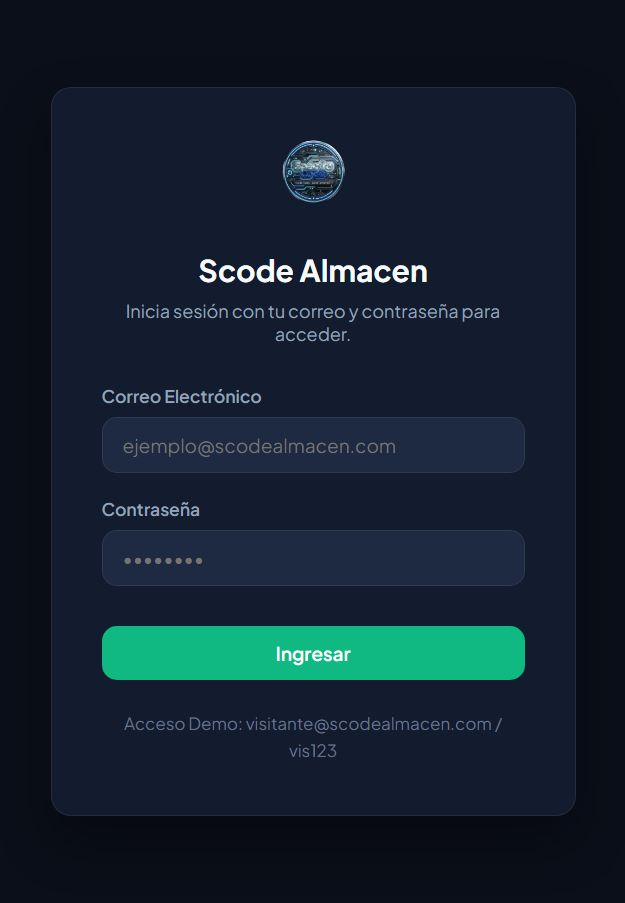
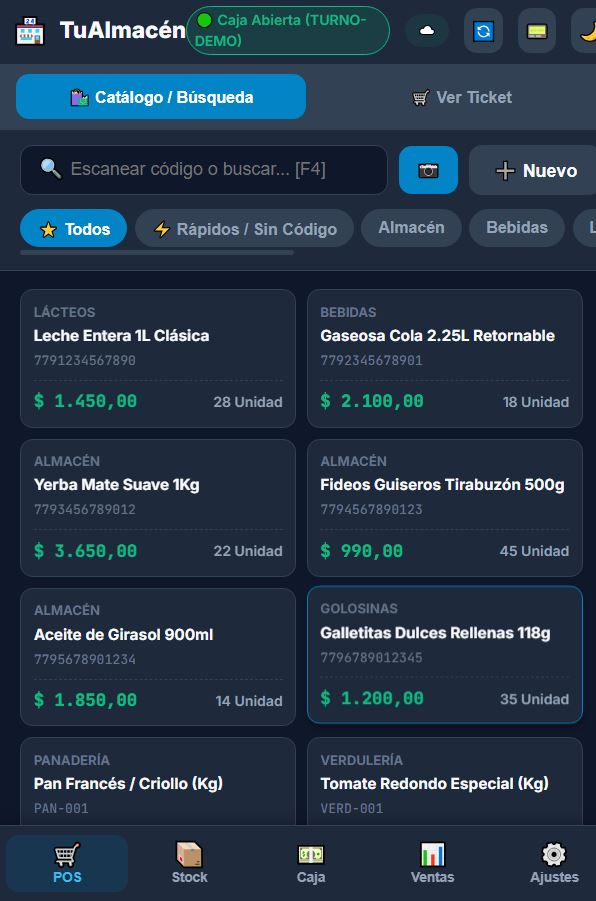
refactor: update project names, demo links, and remove Spectra Sueldos from portfolio

diff --git a/index.html b/index.html
@@ -253,7 +253,8 @@
             </li>
           </ul>
           <div>
-            <a href="https://wa.me/5493875374239?text=Quiero%20m%C3%A1s%20informaci%C3%B3n%20sobre%20los%20curriculum" target="_blank" class="btn whatsapp-btn-inline">
+            <a href="https://wa.me/5493875374239?text=Quiero%20m%C3%A1s%20informaci%C3%B3n%20sobre%20los%20curriculum"
+              target="_blank" class="btn whatsapp-btn-inline">
               <svg width="18" height="18" fill="currentColor" viewBox="0 0 24 24">
                 <path
                   d="M.057 24l1.687-6.163c-1.041-1.804-1.588-3.849-1.587-5.946C.06 5.348 5.397.01 12.008.01c3.202.001 6.212 1.246 8.477 3.513 2.262 2.268 3.507 5.28 3.505 8.484-.004 6.657-5.34 11.997-11.953 11.997-2.005-.001-3.973-.502-5.724-1.455L0 24zm6.59-4.846c1.6.95 3.167 1.455 4.814 1.456 5.487 0 9.954-4.41 9.957-9.822.001-2.624-1.019-5.09-2.871-6.945C16.837 1.988 14.37 1.01 11.75 1.01c-5.492 0-9.957 4.411-9.962 9.825-.001 1.814.48 3.59 1.393 5.161L2.16 20.81l4.487-1.656zM17.76 14.41c-.324-.162-1.92-.949-2.216-1.057-.297-.108-.513-.162-.73.162-.215.324-.836 1.056-1.025 1.272-.188.217-.377.244-.7.081-1.223-.613-2.148-1.077-2.987-2.514-.22-.378.22-.35.63-.173.368.16.812.95.893 1.11.08.16.08.3.04.434-.04.136-.433.974-.633 1.192-.2.217-.406.244-.73.081-1.39-.693-2.45-1.282-3.23-2.617-.204-.347-.204-1.06.315-1.579.467-.467.579-.579.73-.73.151-.151.2-.217.3-.379.099-.162.05-.3-.024-.462-.075-.162-.73-1.76-1.002-2.41-.265-.637-.534-.55-.73-.55-.19 0-.405-.027-.622-.027-.216 0-.568.081-.865.407-.297.324-1.135 1.11-1.135 2.71 0 1.6 1.162 3.142 1.324 3.358.162.217 2.287 3.493 5.54 4.896.774.333 1.378.533 1.849.683.777.247 1.485.212 2.046.128.625-.094 1.92-.785 2.19-1.543.27-.759.27-1.41.19-1.543-.08-.136-.297-.217-.622-.379z" />
@@ -364,13 +365,13 @@
             <img src="image/sistemas/scode-almacen.JPG" alt="SCode Almacén" class="project-image">
             <div class="project-overlay">
               <div class="project-actions">
-                <a target="_blank" href="https://scodealmacen.pages.dev/" class="btn btn-primary">Probar Demo</a>
+                <a target="_blank" href="https://tualmacen.pages.dev/" class="btn btn-primary">Probar Demo</a>
               </div>
             </div>
           </div>
           <div class="project-details">
             <span class="project-type">Sistemas Web</span>
-            <h3 class="project-title">SCode Almacén</h3>
+            <h3 class="project-title">Tu Almacen</h3>
             <p class="project-description">Software integral para control de inventarios, alertas de stock mínimo y
               registro automático de entradas y salidas de mercancías.</p>
             <div class="project-tags">
@@ -381,42 +382,19 @@
           </div>
         </div>
 
-        <!-- Project 5: Spectra Sueldos (Sistemas Web) -->
-        <div class="glass-card project-card" data-category="sistemas">
-          <div class="project-image-wrapper">
-            <img src="image/sistemas/spectrasueldos.JPG" alt="Spectra Sueldos" class="project-image">
-            <div class="project-overlay">
-              <div class="project-actions">
-                <a target="_blank" href="https://sueldodemo.netlify.app/" class="btn btn-primary">Probar Demo</a>
-              </div>
-            </div>
-          </div>
-          <div class="project-details">
-            <span class="project-type">Sistemas Web</span>
-            <h3 class="project-title">Spectra Sueldos</h3>
-            <p class="project-description">Sistema de liquidación de sueldos y salarios automatizado, generación de
-              recibos digitales y auditorías financieras.</p>
-            <div class="project-tags">
-              <span class="project-tag">Next.js</span>
-              <span class="project-tag">Supabase</span>
-              <span class="project-tag">PDF Generator</span>
-            </div>
-          </div>
-        </div>
-
-        <!-- Project 6: TurnoCode (Sistemas Web) -->
+        <!-- Project 5: TurnoCode (Sistemas Web) -->
         <div class="glass-card project-card" data-category="sistemas">
           <div class="project-image-wrapper">
             <img src="image/sistemas/turnocode.JPG" alt="TurnoCode" class="project-image">
             <div class="project-overlay">
               <div class="project-actions">
-                <a target="_blank" href="https://turnerocode.pages.dev/" class="btn btn-primary">Probar Demo</a>
+                <a target="_blank" href="https://sturnos.pages.dev/" class="btn btn-primary">Probar Demo</a>
               </div>
             </div>
           </div>
           <div class="project-details">
             <span class="project-type">Sistemas Web</span>
-            <h3 class="project-title">TurnoCode</h3>
+            <h3 class="project-title">Sturnos</h3>
             <p class="project-description">Gestor inteligente de agenda y reservas de turnos online para profesionales
               de la salud, belleza y asesorías.</p>
             <div class="project-tags">
@@ -440,7 +418,8 @@
           <div class="project-details">
             <span class="project-type">Sistemas Web</span>
             <h3 class="project-title">Fichero Médico</h3>
-            <p class="project-description">Plataforma integral de gestión de ficheros médicos, pacientes y recetas digitales.</p>
+            <p class="project-description">Plataforma integral de gestión de ficheros médicos, pacientes y recetas
+              digitales.</p>
             <div class="project-tags">
               <span class="project-tag">React.js</span>
               <span class="project-tag">Salud</span>
@@ -459,7 +438,8 @@
       <div class="section-header">
         <span class="section-tag">Formación Profesional</span>
         <h2 class="section-title">Nuestros Cursos</h2>
-        <p class="section-desc">Aprende a desarrollar soluciones del mundo real con tecnologías avanzadas y metodologías ágiles.</p>
+        <p class="section-desc">Aprende a desarrollar soluciones del mundo real con tecnologías avanzadas y metodologías
+          ágiles.</p>
       </div>
 
       <div class="courses-grid">
@@ -473,16 +453,13 @@
           </div>
           <h3 class="course-title">Desarrollo Web & Sistemas Web con Google Antigravity</h3>
           <p class="course-description">
-            Aprende a dominar el desarrollo moderno utilizando el potente asistente de IA Google Antigravity. Crea arquitecturas robustas y páginas web ultra-rápidas en tiempo récord.
+            Aprende a dominar el desarrollo moderno utilizando el potente asistente de IA Google Antigravity. Crea
+            arquitecturas robustas y páginas web ultra-rápidas en tiempo récord.
           </p>
           <div class="course-video-wrapper">
-            <iframe 
-              src="https://drive.google.com/file/d/1DjvZAXr2oAmKZkaXnEfE--8WHB5M5onX/preview" 
-              class="course-video-iframe" 
-              title="Demostración Curso Google Antigravity"
-              allow="autoplay; fullscreen" 
-              allowfullscreen 
-              loading="lazy">
+            <iframe src="https://drive.google.com/file/d/1DjvZAXr2oAmKZkaXnEfE--8WHB5M5onX/preview"
+              class="course-video-iframe" title="Demostración Curso Google Antigravity" allow="autoplay; fullscreen"
+              allowfullscreen loading="lazy">
             </iframe>
           </div>
           <ul class="course-features">
@@ -515,7 +492,8 @@
             <div class="course-price">$30.000 <span class="currency">ARS</span></div>
             <p class="price-subtitle">Pago único con acceso de por vida</p>
           </div>
-          <button class="btn btn-primary buy-btn" data-course-title="Desarrollo Web y Sistemas con Google Antigravity" data-course-price="30000">
+          <button class="btn btn-primary buy-btn" data-course-title="Desarrollo Web y Sistemas con Google Antigravity"
+            data-course-price="30000">
             <span>Comprar Curso</span>
           </button>
         </div>
@@ -525,21 +503,20 @@
           <div class="course-badge badge-secondary">Productividad</div>
           <div class="course-icon">
             <svg width="32" height="32" fill="none" stroke="currentColor" stroke-width="2" viewBox="0 0 24 24">
-              <path d="M4 6a2 2 0 012-2h2a2 2 0 012 2v4a2 2 0 01-2 2H6a2 2 0 01-2-2V6zM14 6a2 2 0 012-2h2a2 2 0 012 2v4a2 2 0 01-2 2h-2a2 2 0 01-2-2V6zM4 16a2 2 0 012-2h2a2 2 0 012 2v4a2 2 0 01-2 2H6a2 2 0 01-2-2v-4zM14 16a2 2 0 012-2h2a2 2 0 012 2v4a2 2 0 01-2 2h-2a2 2 0 01-2-2v-4z"></path>
+              <path
+                d="M4 6a2 2 0 012-2h2a2 2 0 012 2v4a2 2 0 01-2 2H6a2 2 0 01-2-2V6zM14 6a2 2 0 012-2h2a2 2 0 012 2v4a2 2 0 01-2 2h-2a2 2 0 01-2-2V6zM4 16a2 2 0 012-2h2a2 2 0 012 2v4a2 2 0 01-2 2H6a2 2 0 01-2-2v-4zM14 16a2 2 0 012-2h2a2 2 0 012 2v4a2 2 0 01-2 2h-2a2 2 0 01-2-2v-4z">
+              </path>
             </svg>
           </div>
           <h3 class="course-title">Desarrollo de Sistemas con Appsheet</h3>
           <p class="course-description">
-            Aprende a diseñar y desplegar aplicaciones empresariales móviles y de escritorio sin escribir código. Conecta bases de datos y automatiza flujos de trabajo eficientemente.
+            Aprende a diseñar y desplegar aplicaciones empresariales móviles y de escritorio sin escribir código.
+            Conecta bases de datos y automatiza flujos de trabajo eficientemente.
           </p>
           <div class="course-video-wrapper">
-            <iframe 
-              src="https://drive.google.com/file/d/18kgobQbh-rfVJfECSKnmq2YdkmJiELuT/preview" 
-              class="course-video-iframe" 
-              title="Demostración Curso AppSheet"
-              allow="autoplay; fullscreen" 
-              allowfullscreen 
-              loading="lazy">
+            <iframe src="https://drive.google.com/file/d/18kgobQbh-rfVJfECSKnmq2YdkmJiELuT/preview"
+              class="course-video-iframe" title="Demostración Curso AppSheet" allow="autoplay; fullscreen"
+              allowfullscreen loading="lazy">
             </iframe>
           </div>
           <ul class="course-features">
@@ -572,7 +549,8 @@
             <div class="course-price">$20.000 <span class="currency">ARS</span></div>
             <p class="price-subtitle">Pago único con acceso de por vida</p>
           </div>
-          <button class="btn btn-secondary buy-btn" data-course-title="Desarrollo de Sistemas con Appsheet" data-course-price="20000" disabled style="opacity: 0.6; cursor: not-allowed;">
+          <button class="btn btn-secondary buy-btn" data-course-title="Desarrollo de Sistemas con Appsheet"
+            data-course-price="20000" disabled style="opacity: 0.6; cursor: not-allowed;">
             <span>Próximamente</span>
           </button>
         </div>
